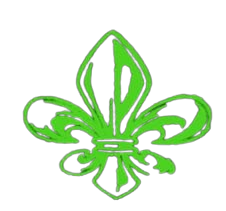
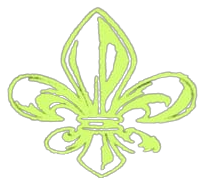
06-09

diff --git a/css/style.css b/css/style.css
@@ -6,7 +6,7 @@
     --cor2: #0d0d55;
     --cor3: #38a8bc;
     --cor4: #bd6c7d;
-    --cor5: #00ff00;
+    --cor5: #d3fc72;
     --withe: #f1ffe7;
     --black: #353535;
 }
